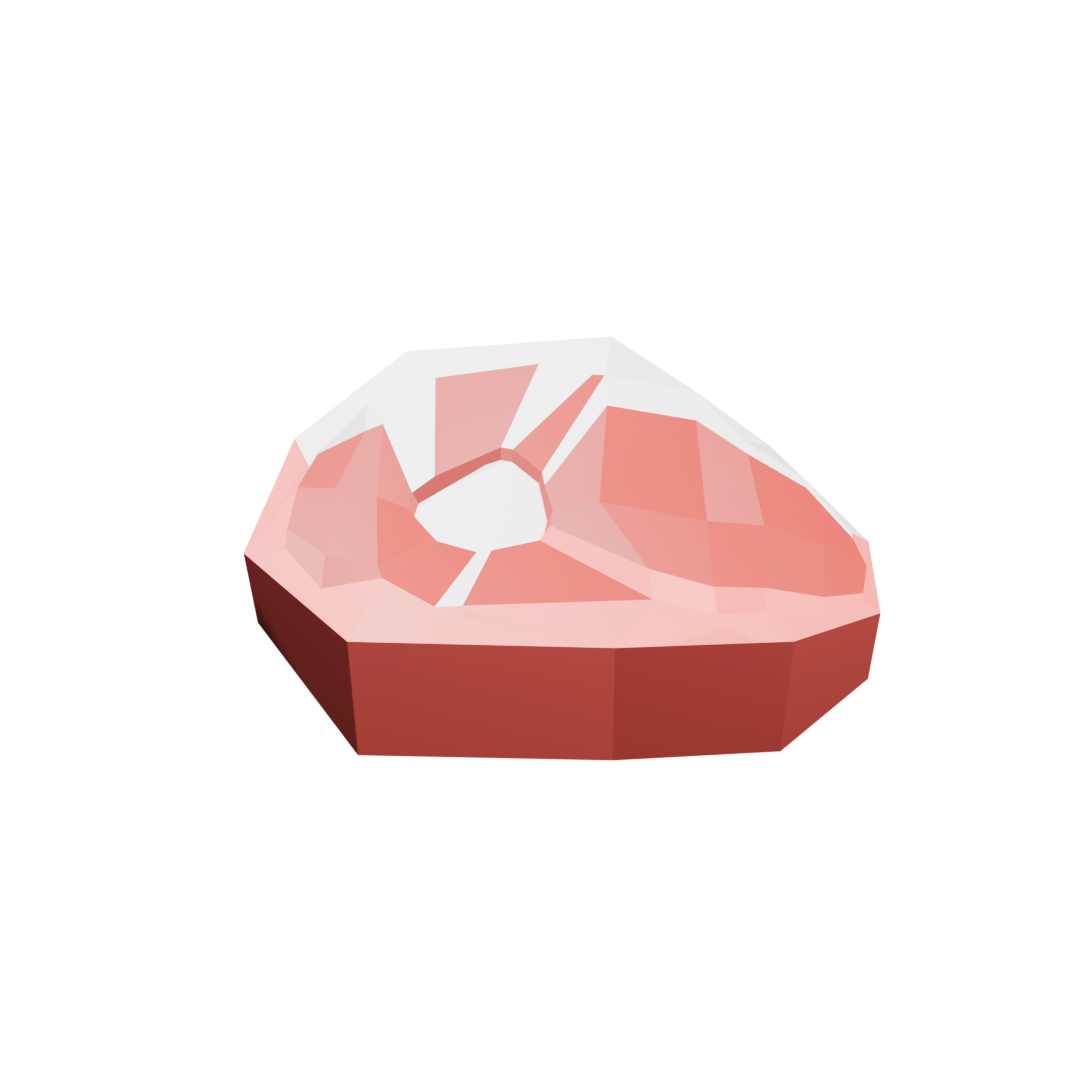
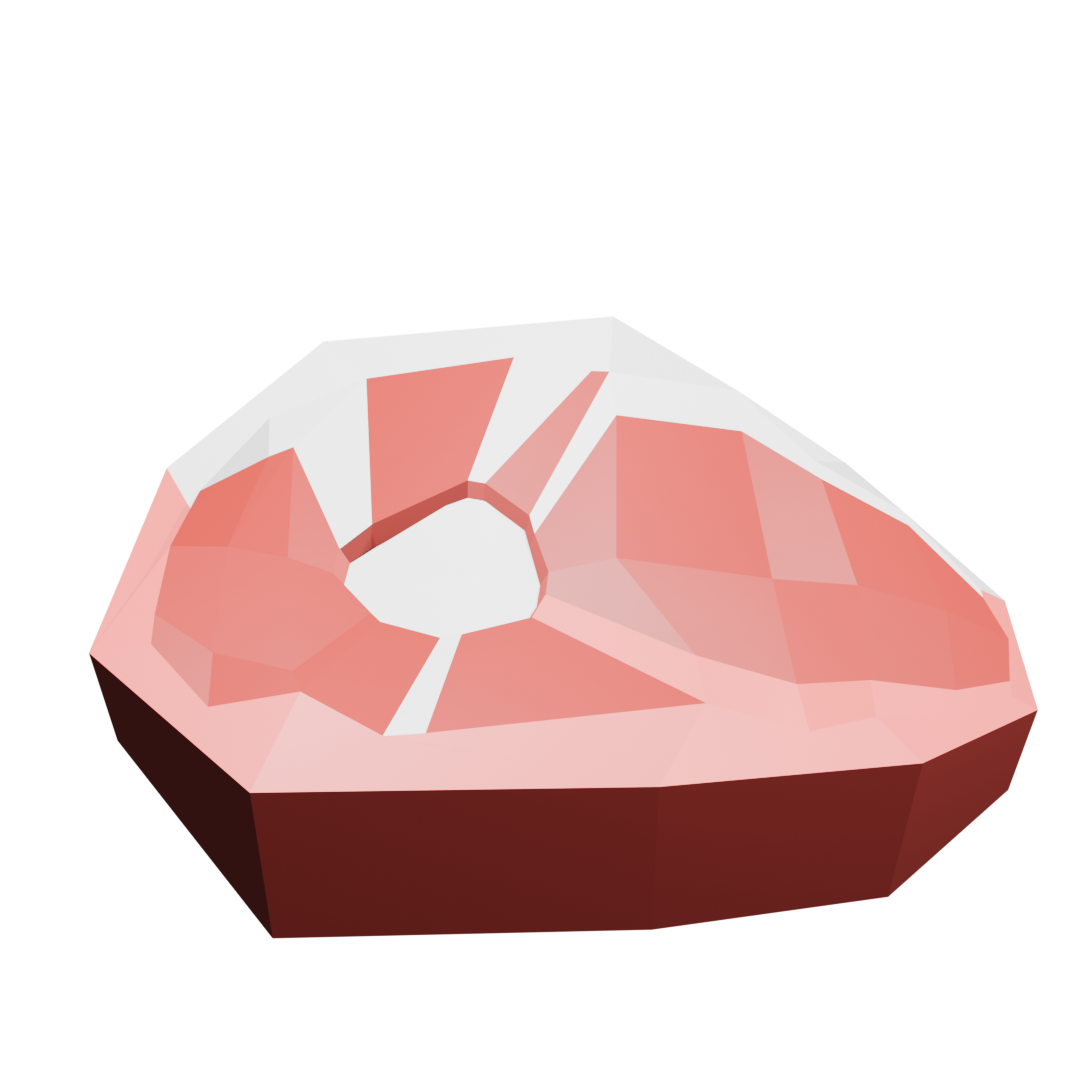
add persona images

diff --git a/main.html b/main.html
@@ -11,15 +11,15 @@
         <div class="persona-column">
             <div class="text-panels-container-persona">
                 <div class="persona-panel" id="manager-panel">
-                    <h2>Manager</h2> <img src="/img/profile.jpg" alt="Manager" class="manager">
+                    <h2>Manager</h2> <img src="/img/manager.png" alt="Manager" class="manager">
                     <p>Manager: Must sell a total of at least $30.</p>
                 </div>
                 <div class="persona-panel" id="customer-panel">
-                    <h2>Customer</h2> <img src="/img/profile.jpg" alt="Customer" class="customer">
+                    <h2>Customer</h2> <img src="/img/customer.png" alt="Customer" class="customer">
                     <p>Customer: I want to buy at least 5 pounds of wings.</p>
                 </div>
                 <div class="persona-panel" id="chef-panel">
-                    <h2>Chef</h2> <img src="/img/profile.jpg" alt="Chef" class="chef">
+                    <h2>Chef</h2> <img src="/img/chef.png" alt="Chef" class="chef">
                     <p>Chef: You should keep at least 2 pounds of steak.</p>
                 </div>
             </div>